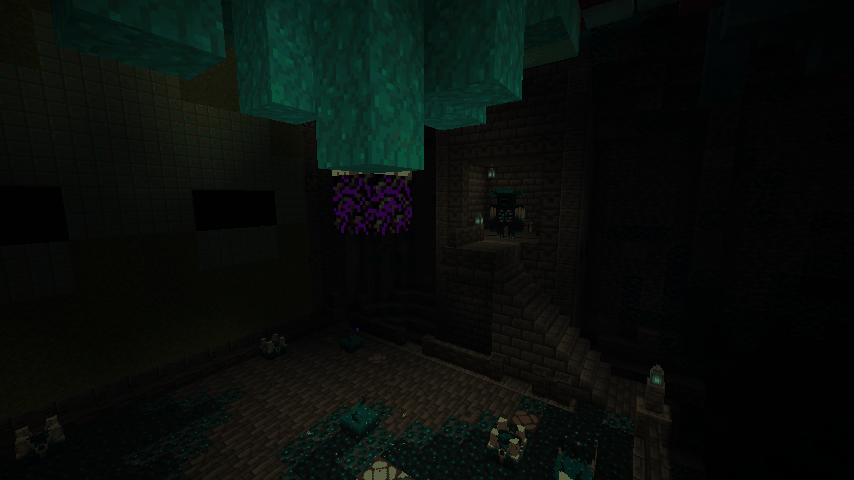
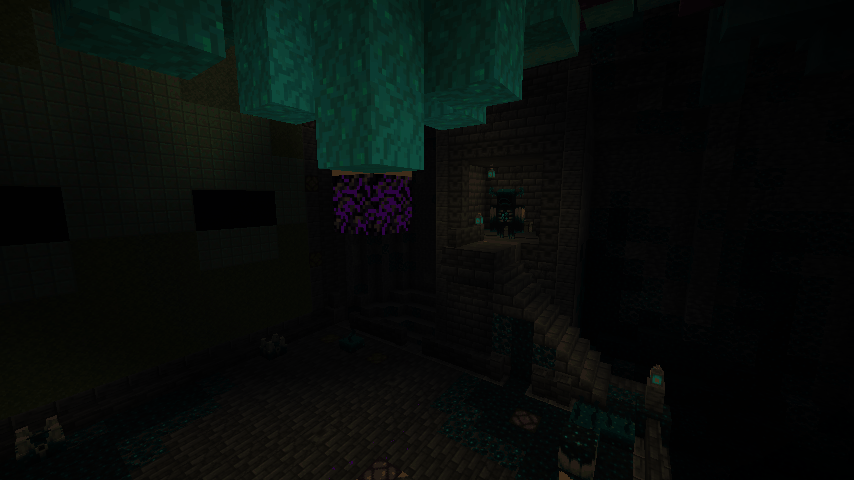
Ancient Fabricators mechanics: one beside every ancient city (worldgen, tunnel and doorway into the city), the dripper drops deactivated mobs, lamp-ring countdown, lift, teleport to the surface where they wake reworked, redstone stops the teleporter, the hidden spawner stops it for good, the passive
Claude-Session: https://claude.ai/code/session_01BJp3bVUq6285x623YGx2kD

diff --git a/mods/bubbas_reworked_mobs/src/gametest/java/io/github/bubba8587/bubbas_reworked_mobs/test/FactoriesClientGameTest.java b/mods/bubbas_reworked_mobs/src/gametest/java/io/github/bubba8587/bubbas_reworked_mobs/test/FactoriesClientGameTest.java
@@ -33,6 +33,7 @@ public class FactoriesClientGameTest implements FabricClientGameTest {
 					s.setWorldType(new WorldCreationUiState.WorldTypeEntry(
 							s.getSettings().worldgenLoadContext().lookupOrThrow(Registries.WORLD_PRESET).getOrThrow(WorldPresets.NORMAL)));
 					s.setSeed("20261116");
+					s.setGenerateStructures(true);
 					s.setGameMode(WorldCreationUiState.SelectedGameMode.CREATIVE);
 				})
 				.create()) {
@@ -60,7 +61,182 @@ public class FactoriesClientGameTest implements FabricClientGameTest {
 					shot(context, server, o, 0.5, 9.0, 18.5, 180.0F, 12.0F, "factory-overview-" + mobs[i]);
 				}
 			}
+			mechanics(context, sp, server, new BlockPos(spawn.getX(), DEPTH_Y, spawn.getZ()));
+			worldgen(context, sp, server, spawn);
 		}
+	}
+
+	/**
+	 * The zombie Fabricator at work, seen by a creative player on the deck (a player near makes it run; creative ones
+	 * don't anger the Warden): a deactivated mob on the pad mid-count (factory-countdown), the lift (factory-lift) and
+	 * the mob arriving on the surface in particles (factory-arrival).
+	 */
+	private static void mechanics(ClientGameTestContext context, TestSingleplayerContext sp, TestServerContext server, BlockPos o) {
+		server.runCommand("gamerule spawn_mobs true");
+		server.runCommand("difficulty normal");
+		server.runCommand("gamemode creative @p");
+		context.runOnClient(mc -> {
+			mc.player.getAbilities().flying = true;
+			mc.player.onUpdateAbilities();
+		});
+		tp(context, server, o.getX() + 0.5, o.getY() + 3.5, o.getZ() + 10.5, 180.0F, 30.0F);
+		sp.getConnection().waitForChunksRender();
+		boolean shot = false;
+		for (int i = 0; i < 900 && !shot; i++) {
+			context.waitTick();
+			shot = server.computeOnServer(s -> {
+				var level = s.overworld();
+				var site = io.github.bubba8587.bubbas_reworked_mobs.factory.FabricatorSites.nearest(level, o, 8);
+				var running = site == null ? null : io.github.bubba8587.bubbas_reworked_mobs.factory.Fabricators.running(level, site);
+				return running != null && running.step() >= 5 && !level.getEntitiesOfClass(net.minecraft.world.entity.Mob.class, site.padArea(),
+						io.github.bubba8587.bubbas_reworked_mobs.factory.FabricatorMobs::isDeactivated).isEmpty();
+			});
+		}
+		System.out.println("[fabricator] countdown " + shot);
+		hudlessShot(context, server, "factory-countdown");
+		for (int i = 0; i < 400; i++) {
+			context.waitTick();
+			boolean lifting = server.computeOnServer(s -> {
+				var level = s.overworld();
+				var site = io.github.bubba8587.bubbas_reworked_mobs.factory.FabricatorSites.nearest(level, o, 8);
+				var running = site == null ? null : io.github.bubba8587.bubbas_reworked_mobs.factory.Fabricators.running(level, site);
+				return running != null && running.lifting();
+			});
+			if (lifting) {
+				break;
+			}
+		}
+		context.waitTicks(12);
+		hudlessShot(context, server, "factory-lift");
+		// Find the mob that went up, while it lies limp in its particles.
+		net.minecraft.world.phys.Vec3 arrived = null;
+		for (int i = 0; i < 1200 && arrived == null; i++) {
+			context.waitTick();
+			arrived = server.computeOnServer(s -> {
+				var level = s.overworld();
+				for (var e : level.getEntitiesOfClass(net.minecraft.world.entity.Mob.class, new net.minecraft.world.phys.AABB(o).inflate(110, 200, 110))) {
+					var state = e.getAttached(io.github.bubba8587.bubbas_reworked_mobs.factory.FabricatorMobs.DEACTIVATED);
+					if (state != null && state.stage() == io.github.bubba8587.bubbas_reworked_mobs.factory.FabricatorMobs.ARRIVED) {
+						return e.position();
+					}
+				}
+				return null;
+			});
+		}
+		System.out.println("[fabricator] arrival " + arrived);
+		if (arrived != null) {
+			server.runCommand("gamemode spectator @p");
+			// A camera spot with a clear line of sight to it (destinations are random, often among trees).
+			net.minecraft.world.phys.Vec3 at = arrived;
+			double[] cam = server.computeOnServer(s -> {
+				var level = s.overworld();
+				net.minecraft.world.phys.Vec3 eye = at.add(0, 0.8, 0);
+				for (double r : new double[] { 4.0, 3.0, 5.5 }) {
+					for (int k = 0; k < 16; k++) {
+						double a = Math.PI * 2.0 * k / 16.0;
+						net.minecraft.world.phys.Vec3 c = at.add(Math.cos(a) * r, 2.2, Math.sin(a) * r);
+						if (level.getBlockState(BlockPos.containing(c)).isAir() && level.clip(new net.minecraft.world.level.ClipContext(c, eye,
+								net.minecraft.world.level.ClipContext.Block.VISUAL, net.minecraft.world.level.ClipContext.Fluid.NONE,
+								net.minecraft.world.phys.shapes.CollisionContext.empty())).getType() == net.minecraft.world.phys.HitResult.Type.MISS) {
+							double dx = eye.x - c.x;
+							double dz = eye.z - c.z;
+							float yaw = (float) (Math.atan2(-dx, dz) * 180.0 / Math.PI);
+							float pitch = (float) (Math.atan2(c.y - eye.y, Math.hypot(dx, dz)) * 180.0 / Math.PI);
+							return new double[] { c.x, c.y, c.z, yaw, pitch };
+						}
+					}
+				}
+				return new double[] { at.x + 0.5, at.y + 3.0, at.z + 4.0, 180.0, 32.0 };
+			});
+			tp(context, server, cam[0], cam[1], cam[2], (float) cam[3], (float) cam[4]);
+			context.waitTicks(8);
+			context.takeScreenshot("factory-arrival");
+		}
+		server.runCommand("gamerule spawn_mobs false");
+		server.runCommand("gamemode spectator @p");
+	}
+
+	/** A shot without the hotbar: spectator for a moment (the Fabricator keeps running that long), then creative again. */
+	private static void hudlessShot(ClientGameTestContext context, TestServerContext server, String name) {
+		server.runCommand("gamemode spectator @p");
+		context.waitTicks(2);
+		context.takeScreenshot(name);
+		server.runCommand("gamemode creative @p");
+		context.runOnClient(mc -> {
+			mc.player.getAbilities().flying = true;
+			mc.player.onUpdateAbilities();
+		});
+	}
+
+	/**
+	 * A Fabricator built by worldgen beside a real ancient city (the one nearest spawn): its overview and the doorway
+	 * where its tunnel meets the city (factory-worldgen, factory-city-door).
+	 */
+	private static void worldgen(ClientGameTestContext context, TestSingleplayerContext sp, TestServerContext server, BlockPos spawn) {
+		System.out.println("[fabricator] " + server.computeOnServer(s -> {
+			var level = s.overworld();
+			var holder = level.registryAccess().lookupOrThrow(net.minecraft.core.registries.Registries.STRUCTURE)
+					.getOrThrow(net.minecraft.world.level.levelgen.structure.BuiltinStructures.ANCIENT_CITY);
+			var found = level.getChunkSource().getGenerator().findNearestMapStructure(level, net.minecraft.core.HolderSet.direct(holder), spawn, 100, false);
+			if (found == null) {
+				return "vanilla locate: no ancient city";
+			}
+			BlockPos c = found.getFirst();
+			int[] cell = io.github.bubba8587.bubbas_reworked_mobs.factory.FabricatorSites.cellOf(level, c.getX(), c.getZ());
+			var site = io.github.bubba8587.bubbas_reworked_mobs.factory.FabricatorSites.cellSite(level, cell[0], cell[1]);
+			return "natural " + io.github.bubba8587.bubbas_reworked_mobs.factory.FabricatorSites.naturalSites(level) + " structures " + level.getServer().getWorldGenSettings().options().generateStructures() + "; vanilla locate: ancient city at " + c.toShortString() + ", cell " + cell[0] + "," + cell[1] + ", our site " + site
+					+ (site == null ? "" : " city " + site.world(site.cityLocal()).toShortString());
+		}));
+		double[] view = server.computeOnServer(s -> {
+			var level = s.overworld();
+			io.github.bubba8587.bubbas_reworked_mobs.factory.FabricatorSite site = null;
+			for (var s2 : io.github.bubba8587.bubbas_reworked_mobs.factory.FabricatorSites.near(level, spawn.atY(0), 4000)) {
+				if (s2.cityLocal() != null && (site == null || s2.origin().distSqr(spawn) < site.origin().distSqr(spawn))) {
+					site = s2;
+				}
+			}
+			if (site == null) {
+				return null;
+			}
+			BlockPos over = site.world(new BlockPos(0, 9, 18));
+			float yaw = 180.0F + 90.0F * site.rotation().ordinal();
+			BlockPos city = site.world(site.cityLocal());
+			double sx = site.world(new BlockPos(0, 1, 12)).getX();
+			double sz = site.world(new BlockPos(0, 1, 12)).getZ();
+			double dx = city.getX() - sx;
+			double dz = city.getZ() - sz;
+			double len = Math.hypot(dx, dz);
+			double door = len - 96 - 6;
+			double cx = sx + dx / len * door;
+			double cz = sz + dz / len * door;
+			float doorYaw = (float) (Math.atan2(-dx, dz) * 180.0 / Math.PI);
+			level.getChunk(city);
+			var cityStructure = level.registryAccess().lookupOrThrow(net.minecraft.core.registries.Registries.STRUCTURE)
+					.getValueOrThrow(net.minecraft.world.level.levelgen.structure.BuiltinStructures.ANCIENT_CITY);
+			boolean real = level.structureManager().getStructureAt(city.atY(-30), cityStructure).isValid()
+					|| level.structureManager().getStructureAt(city.atY(-45), cityStructure).isValid();
+			System.out.println("[fabricator] nearest natural " + site + " city " + city.toShortString() + " pad " + site.pad().toShortString()
+					+ "; a real ancient city there: " + real);
+			return new double[] { over.getX() + 0.5, over.getY(), over.getZ() + 0.5, yaw, cx, site.origin().getY() + 1.5, cz, doorYaw };
+		});
+		if (view == null) {
+			System.out.println("[fabricator] no natural Fabricator within 4000 blocks");
+			return;
+		}
+		tp(context, server, view[0], view[1], view[2], (float) view[3], 12.0F);
+		for (int i = 0; i < 6; i++) {
+			sp.getConnection().waitForChunksRender();
+			context.waitTicks(40);
+		}
+		context.takeScreenshot("factory-worldgen");
+		tp(context, server, view[4], view[5], view[6], (float) view[7], 5.0F);
+		sp.getConnection().waitForChunksRender();
+		context.waitTicks(40);
+		context.takeScreenshot("factory-city-door");
+		server.runCommand("effect give @p minecraft:night_vision infinite 0 true");
+		context.waitTicks(4);
+		context.takeScreenshot("factory-city-door-nightvision");
+		server.runCommand("effect clear @p");
 	}
 
 	private static void fullTour(ClientGameTestContext context, TestSingleplayerContext sp, TestServerContext server, BlockPos o) {

diff --git a/mods/bubbas_reworked_mobs/src/main/java/io/github/bubba8587/bubbas_reworked_mobs/factory/FabricatorMobs.java b/mods/bubbas_reworked_mobs/src/main/java/io/github/bubba8587/bubbas_reworked_mobs/factory/FabricatorMobs.java
@@ -102,8 +102,11 @@ public final class FabricatorMobs {
 		if (state.stage() == ARRIVED && mob.level() instanceof ServerLevel level) {
 			if (level.getGameTime() >= state.wakeAt()) {
 				wake(mob);
-			} else if (mob.tickCount % 4 == 0) {
-				level.sendParticles(ParticleTypes.REVERSE_PORTAL, mob.getX(), mob.getY() + mob.getBbHeight() * 0.5, mob.getZ(), 6, 0.4, 0.6, 0.4, 0.02);
+			} else if (mob.tickCount % 2 == 0) {
+				// It lies in a column of portal light until it wakes: seen from a distance at night.
+				level.sendParticles(ParticleTypes.REVERSE_PORTAL, mob.getX(), mob.getY() + 0.3, mob.getZ(), 14, 0.5, 1.2, 0.5, 0.03);
+				level.sendParticles(ParticleTypes.PORTAL, mob.getX(), mob.getY() + mob.getBbHeight() * 0.5, mob.getZ(), 10, 0.6, 0.6, 0.6, 0.5);
+				level.sendParticles(ParticleTypes.SCULK_SOUL, mob.getX(), mob.getY() + 0.2, mob.getZ(), 2, 0.4, 0.2, 0.4, 0.03);
 			}
 		}
 	}

diff --git a/docs/reports/factories-mechanics-2026-11-16.md b/docs/reports/factories-mechanics-2026-11-16.md
@@ -1,0 +1,134 @@
+<!-- dte:C1,B15,B19 -->
+# Docs report: Ancient Fabricators, mechanics (2026-11-16)
+
+Adds to the look reports (`factories-docs-`, `-look2-`, `-light-2026-11-16.md`); merge all into `specs/mob-factory.md`. Code: `factory/` (`FabricatorSites`, `FabricatorFeature`, `FabricatorSite`, `Fabricators`, `FabricatorMobs`, `FabricatorLink`, `FabricatorLoot`, `FabricatorTuning`, `FactoryDesign`, `FactoryCommand`), `compat/FabricatorBeaconPayload`, mixins `MobDeactivatedMixin`, `MobPersistenceAccessor`, `WardenJukeboxMixin`. Every number is in `FabricatorTuning` (owner playtests, F5).
+
+## Spec facts (as built)
+
+**Worldgen: one beside every ancient city.**
+- *Where:* sites are worked out from the seed, never stored.
+  - For each ancient-city grid cell (vanilla's own `ancient_cities` placement, read from the structure set, so datapacks that move cities move Fabricators), the candidate city chunk is checked with the city's biome test: the biome at the chunk corner at y -27 must be in the city structure's biome set. The vanilla test uses the centre piece's middle, so very rarely the two could disagree.
+  - The Fabricator stands **150 blocks** from the city's centre (clear of its pieces, which reach 116) in a seeded direction, deck at **y -50** (city floors are about -51).
+  - It is turned (quarter turns) so its front faces the city. Its mob is seeded from the five.
+- *The tunnel:* replaces the old winding front tunnel. It runs straight (with a slight wander) toward the city's centre at deck level, easing to the city floor, and stops 70 blocks from the centre. It cuts its own gap through whatever of the city's outer ring is in its way (it is placed after the city).
+  - A polished and chiseled deepslate **doorway** frames the passage 96 blocks from the city's centre.
+  - The tunnel floor is deepslate tiles. Its sides are only touched where the world holds liquid (sealed with deepslate).
+- *Placement:* a worldgen feature (`bubbas_reworked_mobs:ancient_fabricator`, every overworld biome, last decoration step, so after the city and the deep dark's sculk) places, per chunk, the part of the build inside that chunk.
+  - Cost per chunk: a cheap seed hash and one biome lookup per nearby cell (cached), plus a rough distance test.
+  - Only chunks near a cavern or its tunnel work out the design (about 54k blocks, cached for the last 6 sites).
+  - Sculk patches grow from their seed chunk, as the cities' do. Chest loot tables are set at placement.
+- *First run:* what worldgen can't do waits for the first time a player comes near (`Fabricators.prepare`, saved):
+  - the patch shriekers are set to can't-summon;
+  - the pad and its lamps are cleared of sculk;
+  - the jukebox gets disc 13;
+  - the Warden is spawned;
+  - with Reworked Beacons, the floor beacon is loaded.
+- *Verified in the client test (seed 20261116):* the Fabricator nearest spawn generated whole at (2515, -50, 850), and the structure manager confirms a real ancient city at its city spot. Screenshots `fabricator-worldgen`, `fabricator-city-door-nightvision`.
+- *Command:* `ancient_fabricator locate` names the nearest one (natural or hand-placed) within 3000 blocks, its mob, and whether it still runs. Hand-placed ones (`here`/`build`) are **saved with the world** (`bubbas_reworked_mobs:fabricator_sites`) and run like natural ones. Per-site state (prepared, Warden spawned, beacon loaded, broken) is in `bubbas_reworked_mobs:fabricator_states`.
+
+**Running** (while a non-spectator player is within 64 of the pad; checked every second; a site stops 2 s after its last player leaves). One count:
+1. At the start of each count the dripper drops its mob. Particles (purple tears, sculk soul) and a bloom sound mark the tip.
+2. The mob appears just under the crying obsidian tip, head clear of it, and falls about 7 blocks onto the pad, **deactivated**:
+   - its whole server AI step is skipped: no goals, brain, navigation or look/move/jump control;
+   - silent, head hanging (pitch 60), never hurt by the fall;
+   - it can still be hit and pushed.
+3. The 8 **timer lamps** light one by one, one every **2 s**, with a sculk click rising in pitch.
+4. **Portal particles** over the pad thicken with the count, and run with nothing on the pad too.
+5. With all 8 lit comes the **lift**: everything on the pad (5x5, 3 high; not spectators, not the Warden) gets **Levitation I for 1.5 s**, with a beacon hum. After 1 s it **fires** and the lamps go dark.
+   - A deactivated mob goes to a **surface spot within 96 blocks sideways**: at least 16 above the pad, the top block of a loaded, ticking column, passing vanilla's natural-spawn rules for that mob (placement and light: dark ground, so in practice at night), no player within 24, room to stand. 24 tries.
+   - With no spot (daytime), it stays on the pad for the next count.
+   - Arrived, it lies limp **2 s** in a column of portal particles (plus a burst and the enderman-teleport sound), then **wakes**.
+   - It was made with the `TRIGGERED` spawn reason, so `MobFinalizeSpawnMixin` leaves it reworked (watcher creeper, caretaker enderman, reworked undead); the game test checks a creeper wakes as a watcher.
+   - A **player** (or any other living thing) who hopped on rides it up to a surface spot with standing room, any time of day, in the same particles.
+6. **Rate:** one mob per count, 17 s, so about 3.5 a minute while a player is near.
+7. Peaceful stops drops, and so does the `spawn_monsters` rule (except on the game test server).
+
+**Redstone (F2): powered = stopped**, like a locked hopper.
+- The control is the pad's **lodestone**: power it (a lever, a torch beside it, a redstone block under it). The count doesn't run and the lamps stay dark.
+- The dripper keeps dropping one mob per 17 s, so they **pile up deactivated on the deck, up to 12** (the cap applies always).
+- Deactivated mobs are **persistent** while deactivated (a pile stays when you step away) and lose that when they wake.
+
+**The hidden spawner (F6).** Checked every half second while the site runs. When it's gone:
+- the Fabricator is **stopped for good** (saved);
+- the lamps go dark;
+- everything deactivated on the deck **wakes up there**;
+- the dripper shrieks with a burst of sculk soul.
+
+The Warden and the debuffs carry on.
+
+**The Warden (F8).**
+- One per Fabricator, spawned the first time it runs, in its office window. Persistent, never respawned.
+- **Passive** means no AI at all: it can't move, dig or hear vibrations (vanilla Wardens with no AI hear nothing, so its own jukebox and the dropped mobs don't stir it). Every second it turns to watch the pad, or whatever stands on it.
+- It **wakes** when a survival/adventure player:
+  - **goes for the machine or a beacon without sneaking**: within 6 of the hidden spawner, 5 of the ceiling beacon, 4 of the floor beacon, or up in the roof (9+ above the deck, within 16 of the pad sideways);
+  - **breaks a block in that zone** (even sneaking);
+  - **hits it**.
+- Awake, it has its AI back and anger 100 at that player (angry is 80): a vanilla Warden that **never digs away** (dig cooldown refreshed every second).
+- Wardens don't hear a Fabricator office's jukebox (`WardenJukeboxMixin`), so a woken one isn't pulled back to the office by the music.
+
+**Debuffs (F7) and the beacons.**
+- Both pyramids are now **2 layers** (3x3 + 5x5 iron each; the floor's lower layer is hidden in the deck): **68 iron blocks** in all (the owner said iron is fine).
+- The debuff area is a 2-layer pair's: **90 sideways**, 10 past both pyramids.
+- *Without Reworked Beacons:* the floor beacon is the "core". While it stands, every survival/adventure player in the area gets **Mining Fatigue III, Weakness I, Slowness I** (13 s, renewed every 4 s, ambient particles). Break it and they end.
+- *With Reworked Beacons, without Infused Gems:* the floor beacon holds a **Fabricator Heart** (an echo shard, named, marked with custom data). Our payload (`compat/FabricatorBeaconPayload`, loaded only through that mod's entrypoint; `compileOnly`, `suggests`) gives the same three debuffs to players in the pair's area. Take it out or break the beacon and they end.
+  - The heart works in any beacon: a player can make a debuff beacon with it (taking over).
+  - New small Reworked Beacons API: `api/BeaconSlots.item/setItem` (fill a beacon's slot from another mod).
+- *With Reworked Beacons and Infused Gems:* the floor beacon holds a real **perfect Mining Fatigue gem with a Slowness bonus** (Gem Power VI, capped to III by the 2-layer pyramid). It is built by name, with no link to Infused Gems, and Infused Gems' own payload gives it to everything in the area (B18). Take it out and that ends.
+
+**Office loot.**
+- `loot_table/chests/fabricator_office`, 3 chests:
+  - 3-6 rolls of: paper, books, a book and quill, echo shards, disc fragments, gray candles, iron, redstone, sculk;
+  - then one roll: nothing (12) / disc 13 (2) / disc 11 (1) / Swift Sneak book (3).
+- **Spare parts (owner):** with Infused Gems installed the chests use `fabricator_office_with_gems` instead (it loads only with that mod, via a Fabric load condition; chosen in code by `isModLoaded`). It adds a **1-in-3** chance of a harmful gem: Mining Fatigue 3 / Slowness 2 / Weakness 2 (weights) at Gem Power III tier 2, or 1 the beacon's own perfect Mining Fatigue gem. Without Infused Gems, no gems.
+
+## Builder's choices (owner may want to hear)
+1. **Powered stops the teleporter** (like a hopper). The lodestone is the input.
+2. **Starting rate:** one mob per 17 s count, pile cap 12, 2 s wake, 96-block reach.
+3. **Placement:** 150 blocks from the city, deck at -50. The tunnel cuts into the city's outer ring; the doorway 96 from its centre is a guess at where the city's edge is. The first real one looks right in screenshots (a deepslate city wall beside the door), but the owner should walk one.
+4. **Two-layer pyramids** so an Infused Gems beacon gem isn't stuck at Gem Power I: 68 iron blocks per Fabricator.
+5. **Dropped mobs keep sculk quiet?** No: falls are vibrations, so deck sensors twitch. Shriekers only answer players; the passive Warden hears nothing.
+6. **A deactivated mob in daylight:** it can't be sent up (no dark spot), so it waits on the pad. Undead deactivated on the deck are underground, so no burning.
+7. **Players riding up** get no darkness rule and land on any solid surface spot within 96: an escape route.
+8. **Natural Fabricators are generated only in new chunks.** In an existing world, Fabricators appear beside cities whose surroundings haven't generated yet.
+9. **Office chests, the Warden and the beacon item** are set up when worldgen places them (loot) or the first time a player comes near (Warden, item, jukebox).
+10. **Creative players** neither wake the Warden nor get debuffs. Spectators don't make it run.
+
+## Milestone test objectives
+- **Core** (`ReworkedMobsCoreGameTest`, 4; bodies in `MobFactoryGameTest`, each building a whole Fabricator 8000 blocks out with forced chunks and running it without a player):
+  - `fabricatorDropsDeactivatedMob`: limp, looking down, unhurt, silent, no target;
+  - `fabricatorSendsItUpAndItWakesReworked`: lamps count, lift, sent up, wakes a watcher creeper;
+  - `fabricatorRedstoneStopsTheTeleporter`: count never starts, lamps dark, mob stays, nothing sent;
+  - `fabricatorBreakingTheSpawnerStopsIt`: broken saved, deck mob wakes, no more drops.
+- **Milestone** (`MobFactoryGameTest`):
+  - `wardenWakesWhenItHearsAPlayerAtTheMachine`: one Warden, passive and persistent, wakes angry at a survival player at the floor beacon;
+  - `debuffsWithoutReworkedBeacons`: Mining Fatigue III, Weakness, Slowness.
+- **Client part `factories`:** the look shots plus:
+  - `factory-countdown`: a deactivated zombie on the pad mid-count;
+  - `factory-lift`: all lamps lit, lifted;
+  - `factory-arrival`: the zombie limp on the surface at night in its particles;
+  - `factory-worldgen` and `factory-city-door(-nightvision)`: the natural Fabricator nearest spawn and its doorway, with the "real ancient city there: true" check printed.
+- **Not yet tested (objectives):**
+  - a player riding the pad lands on the surface;
+  - the Warden ignores its jukebox after waking;
+  - a woken Warden never digs;
+  - the heart / Infused Gems gem in the beacon (with `-PwithBeacons`, and with Infused Gems), and taking it out ends the debuffs;
+  - office loot with and without Infused Gems;
+  - a pile caps at 12;
+  - the Fabricator survives a save and reload (sites, states, persistent deactivated mobs);
+  - `ancient_fabricator locate`;
+  - a natural Fabricator near every city in a large area.
+
+## Player-facing text (draft)
+Beside every ancient city lies an **Ancient Fabricator**. Its living warped roof drips monsters onto an ancient teleporter. They land limp and still, and as its eight lamps light one by one they're lifted and sent up to the surface, where they wake on dark ground at night. If you see one appear in a burst of portal light, a Fabricator is beneath you.
+- Kill them on the pad before they're sent.
+- Power the pad's lodestone with redstone to stop the teleporter and let them pile up.
+- Step on the pad yourself to ride it up and out.
+- Find the hidden spawner buried in the roof and break it to stop the Fabricator for good.
+- A Warden watches from its office window. It stays still until it hears you going for the roof or the beacons.
+- The beacons make the whole area sap your strength (Mining Fatigue, Weakness, Slowness).
+
+## Other docs to touch
+- `specs/reworked-beacons.md` (new `api/BeaconSlots`).
+- `specs/effect-gems.md` (a structure loads a gem into a beacon; gems in Fabricator chests).
+- `CLAUDE.md` client part list (`factories`).
+- `BACKLOG.md`: the doorway's exact spot at the city's edge; vanilla's infinite jukebox.
